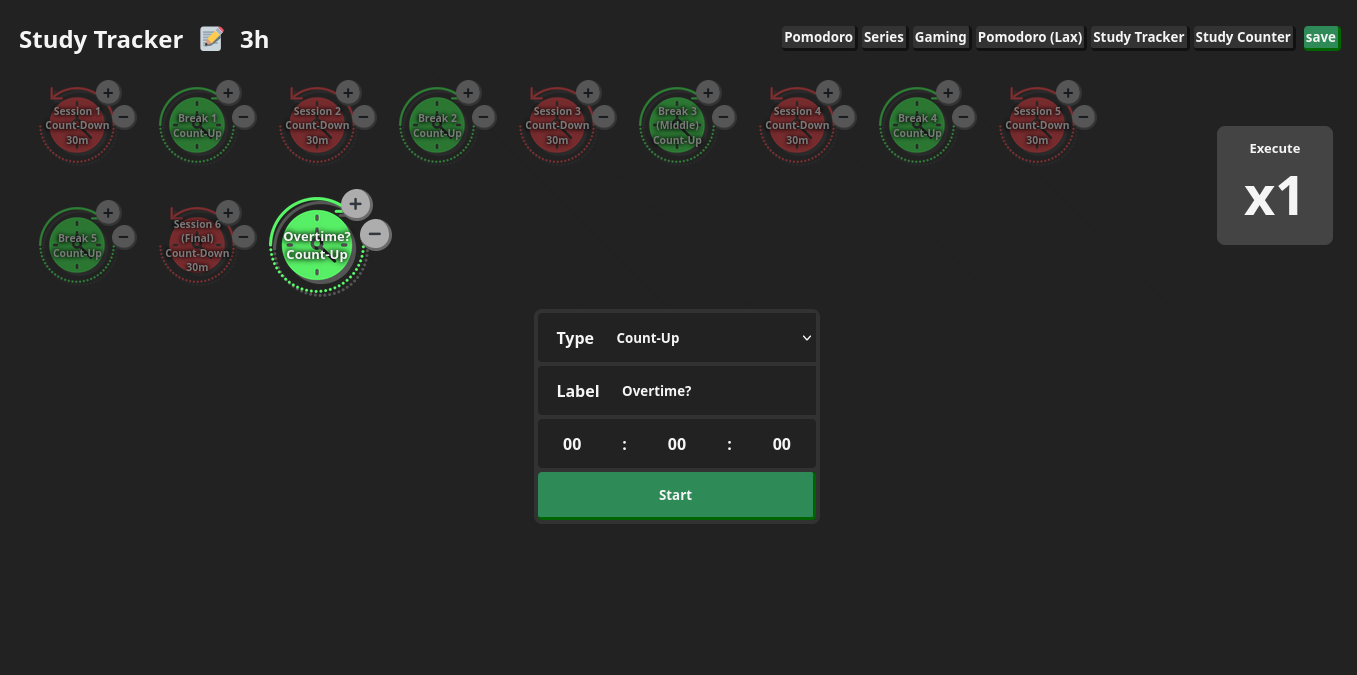
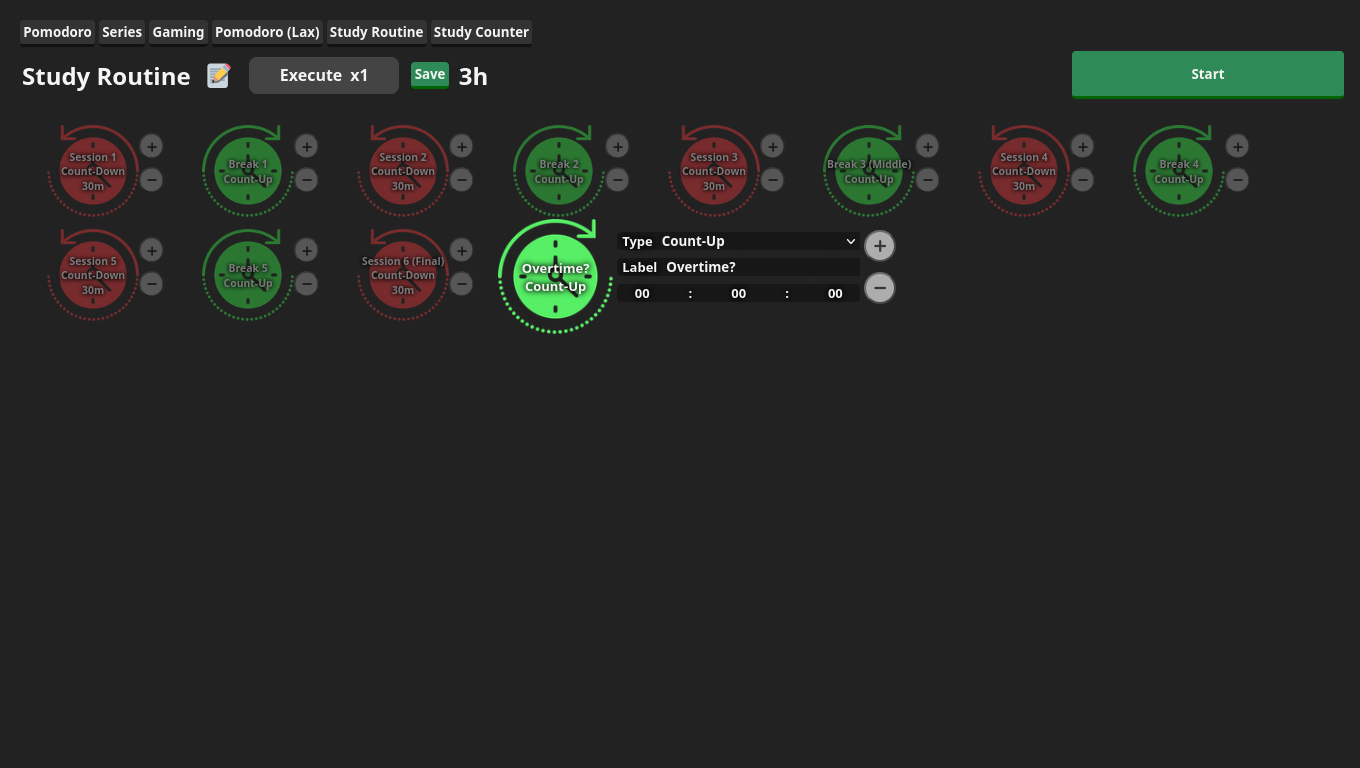
rearranged components in initial screen for clarity cleaned up orphaned stylesheet rules

diff --git a/index.css b/index.css
@@ -46,8 +46,7 @@ html, * {
   align-content: center;
   align-items: center;
   padding: 12px;
-  gap: 24px;
-  /* overflow-x: auto; */
+  gap: .5rem;
   flex-wrap: wrap;
 }
 
@@ -71,15 +70,20 @@ html, * {
   gap: 4px;
 }
 
+#sequenceParams {
+  display: flex; gap: 0.2rem; align-items: center;
+}
+
 #executeFrame {
   display: flex;
-  flex-direction: column;
   justify-content: center;
-  padding: 2vh 4vh;
+  padding: 1vh 4vh;
   background: #444444;
   border-radius: 8px;
   margin: auto 8px;
   user-select: none;
+  gap: .5rem;
+  cursor: ns-resize;
 }
 
 #executeFrame p {
@@ -87,93 +91,33 @@ html, * {
   margin: auto;
   font-family: var(--appFont);
   font-weight: bold;
-  font-size: 8vh;
 }
 
-.divisor {
-  width: auto;
-  height: auto;
-  display: flex;
-  gap: 4px;
-  align-items: center;
+#startSequenceBtn {
+  height: 3rem;
+  width: 20vw;
+  margin-left: auto;
 }
 
-#timerBase {
-  width: 100%;
-  height: fit-content;
-  background: #545454;
-  border-radius: 8px;
-  display: flex;
-  flex-direction: column;
-  padding: 4px;
-}
-
-#timerBase button {
-  width: auto;
-  background: #323232;
-  color: whitesmoke;
-  font-weight: bold;
-  font-family: var(--appFont);
-  padding: 4px;
+button {
+  padding: 0.2rem;
   border: none;
-  border-radius: 4px;
-}
-
-#editor {
-  margin: auto;
-  font-family: var(--appFont);
-  color: whitesmoke;
-  background: #323232;
-  border-radius: 8px;
-}
-
-.fullWidth {
-  width: 100%;
-  font-weight: bold;
-  background: inherit;
-  color: inherit;
-  border: none;
-}
-
-.option {
-  background: #181717;
-  border-radius: 4px;
-  margin: 4px;
-  display: flex;
-  justify-content: center;
-  gap: 4px;
-}
-
-.option p {
-  padding: 0px 5px;
-  margin: 2vh;
-  text-align: center;
-  font-weight: bold;
-  user-select: none;
-}
-
-.greenBtn {
-  padding: 2px;
-  border: solid;
-  border-left: none;
-  border-top: none;
-  border-bottom-color: darkgreen;
-  border-right-color: darkgreen;
+  border-bottom: solid darkgreen;
   border-radius: 4px;
   background: seagreen;
   font-weight: bold;
   color: whitesmoke;
   transition: .2s;
 }
-.greenBtn:hover {
+
+button:hover {
   filter: brightness(.9);
   cursor: pointer;
 }
-.greenBtn:active {
+
+button:active {
   transform: scale(.9);
 }
-
-
 
 timer-item {
   font-size: small;
@@ -181,9 +125,7 @@ timer-item {
   filter: brightness(0.5);
   transition: .1s;
 }
-/* timer-item:hover {
-  cursor: pointer;
-} */
+
 .selectedTimer {
   transform: scale(1);
   filter: brightness(1);
@@ -258,6 +200,7 @@ timer-item {
   margin: 1rem;
   padding: 0px;
 }
+
 #overlayCloseBtn:hover {
   cursor: pointer;
 }
@@ -270,6 +213,7 @@ timer-item {
   text-align: center;
   user-select: none;
 }
+
 .overlayInfo p {
   margin: 0px;
 }
@@ -284,13 +228,16 @@ timer-item {
   margin: 1rem;
   transition: .2s;
 }
+
 .ctrlBtn:hover {
   transform: scale(1.1);
   cursor: pointer;
 }
+
 .ctrlBtn:active:enabled {
   transform: scale(.9);
 }
+
 .ctrlBtn:disabled {
   opacity: 50%;
 }

diff --git a/index.html b/index.html
@@ -12,7 +12,6 @@
   <script defer src="modules/sequence.js"></script>
   <script defer src="modules/sequenceList.js"></script>
   <script defer src="modules/timer.js"></script>
-  <script defer src="modules/editor.js"></script>
   <script defer src="modules/overlay.js"></script>
   <script defer src="index.js"></script>
 </head>
@@ -163,30 +162,19 @@
     </div>
   </div>
   <main style="padding: 1rem;">
-    <!-- title and stored sequence list -->
-    <div class="divisor">
-      <h2 id="sequenceTitle" spellcheck="false" contenteditable="true">Sequence</h2>
+    <div id="sequenceList"></div>
+    <div id="sequenceParams">
+      <h2 id="sequenceTitle" spellcheck="false" contenteditable="true" title="Sequence name, click to edit">Sequence</h2>
       <h2 class="titleStyle" style="user-select: none;">📝</h2>
-      <h2 class="titleStyle"id="estimatedTime" style="user-select: none;">0s</h2>
-      <div id="sequenceList"></div>
-      <button id="sequenceSave" class="greenBtn" style="margin: auto 0px;">save</button>
-    </div>
-    <!-- sequence and execution count -->
-    <div class="divisor" style="height: fit-content; justify-content: space-between;">
-      <div id="sequencer"></div>
       <div id="executeFrame" title="Scroll to increment/decrement">
-        <p style="font-size: small;">Execute</p>
+        <p>Execute</p>
         <p id="executeCount">x1</p>
       </div>
+      <button id="sequenceSave" title="Save sequence"">Save</button>
+      <h2 class="titleStyle" id="estimatedTime" style="user-select: none;" title="Estimated duration">0s</h2>
+      <button id="startSequenceBtn" title="Start sequence">Start</button>
     </div>
-    <!-- editor -->
-    <div class="divisor">
-      <div id="editor">
-        <div class="option">
-          <button id="startSequenceBtn" class="greenBtn fullWidth" style="height: 3rem; width: 20vw;">Start</button>
-        </div>
-      </div>
-    </div>
+    <div id="sequencer"></div>
   </main>
 </body>
 </html>

diff --git a/modules/sequenceList.js b/modules/sequenceList.js
@@ -6,12 +6,6 @@ const SequenceList = new class {
   constructor() {
     this.listElement = document.getElementById('sequenceList')
     this.populate()
-    
-    const sequenceSaveBtn = document.getElementById('sequenceSave')
-    sequenceSaveBtn.onclick = () => {
-      Sequence.storeSequence()
-      this.populate()
-    }
   }
 
   /**
@@ -48,9 +42,9 @@ const SequenceList = new class {
     for (const entry of Object.keys(this.getList())) {
       const btn = document.createElement('button')
       btn.textContent = entry
-      btn.className = 'greenBtn'
       btn.style.background = '#333333'
       btn.style.borderColor = '#111111'
+      btn.title = 'Load sequence. Right-click to remove'
 
       btn.onclick = () => Sequence.loadSequence(entry)
 

diff --git a/modules/sequence.js b/modules/sequence.js
@@ -177,6 +177,21 @@ const Sequence = new class {
       executeCount.textContent = `x${Sequence.executionSet}`
       this.updateEstimatedTime()
     })
+
+    // save current sequence and repopulate SequenceList
+    const sequenceSaveBtn = document.getElementById('sequenceSave')
+    sequenceSaveBtn.onclick = () => {
+      Sequence.storeSequence()
+      SequenceList.populate()
+    }
+
+    // display overlay and start sequence
+    const startSequenceBtn = document.getElementById('startSequenceBtn')
+    startSequenceBtn.onclick = () => {
+      Sequence.restore()
+      Overlay.toggle(true)
+      Sequence.start()
+    }
   }
 
   /**
